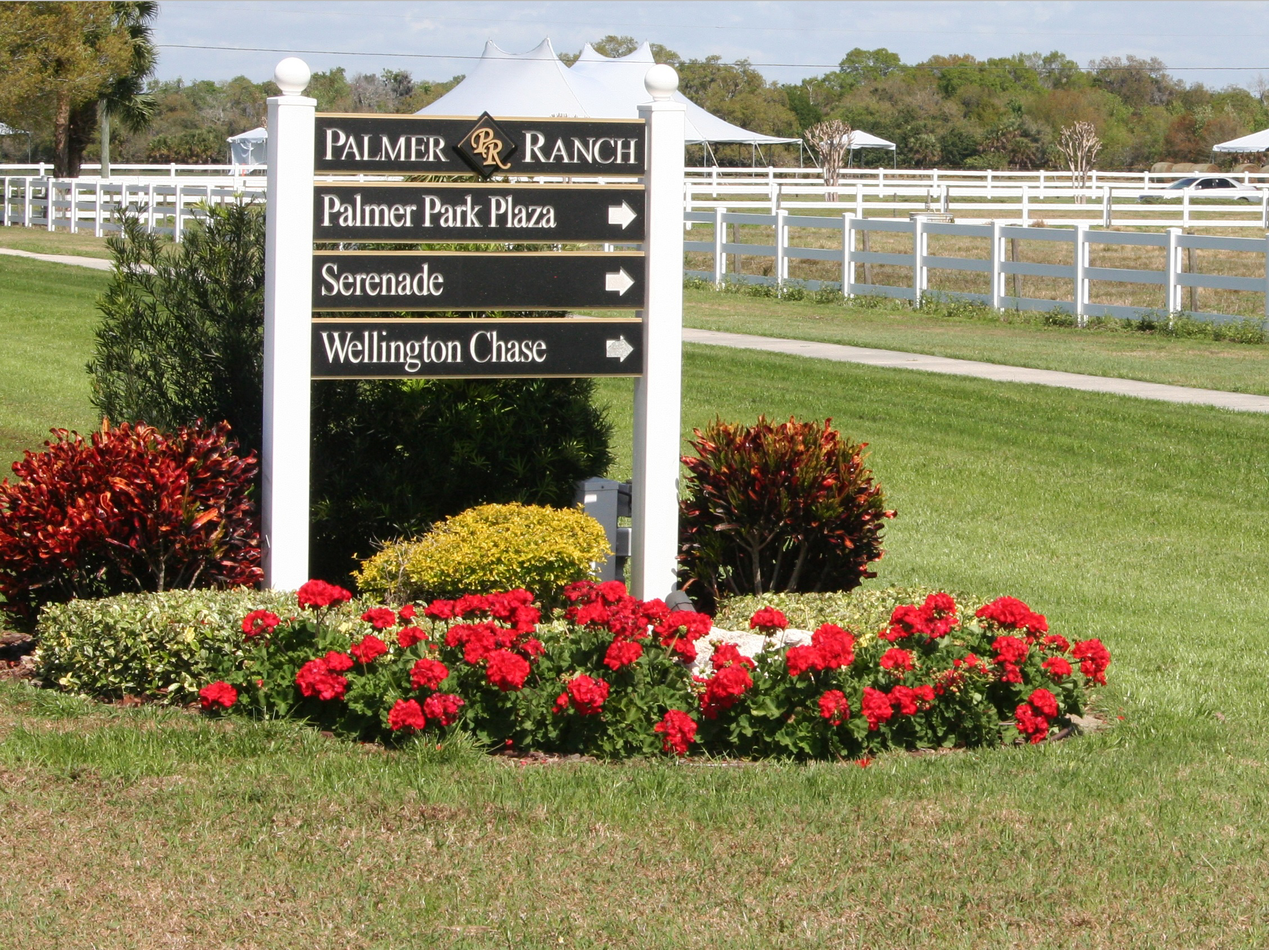
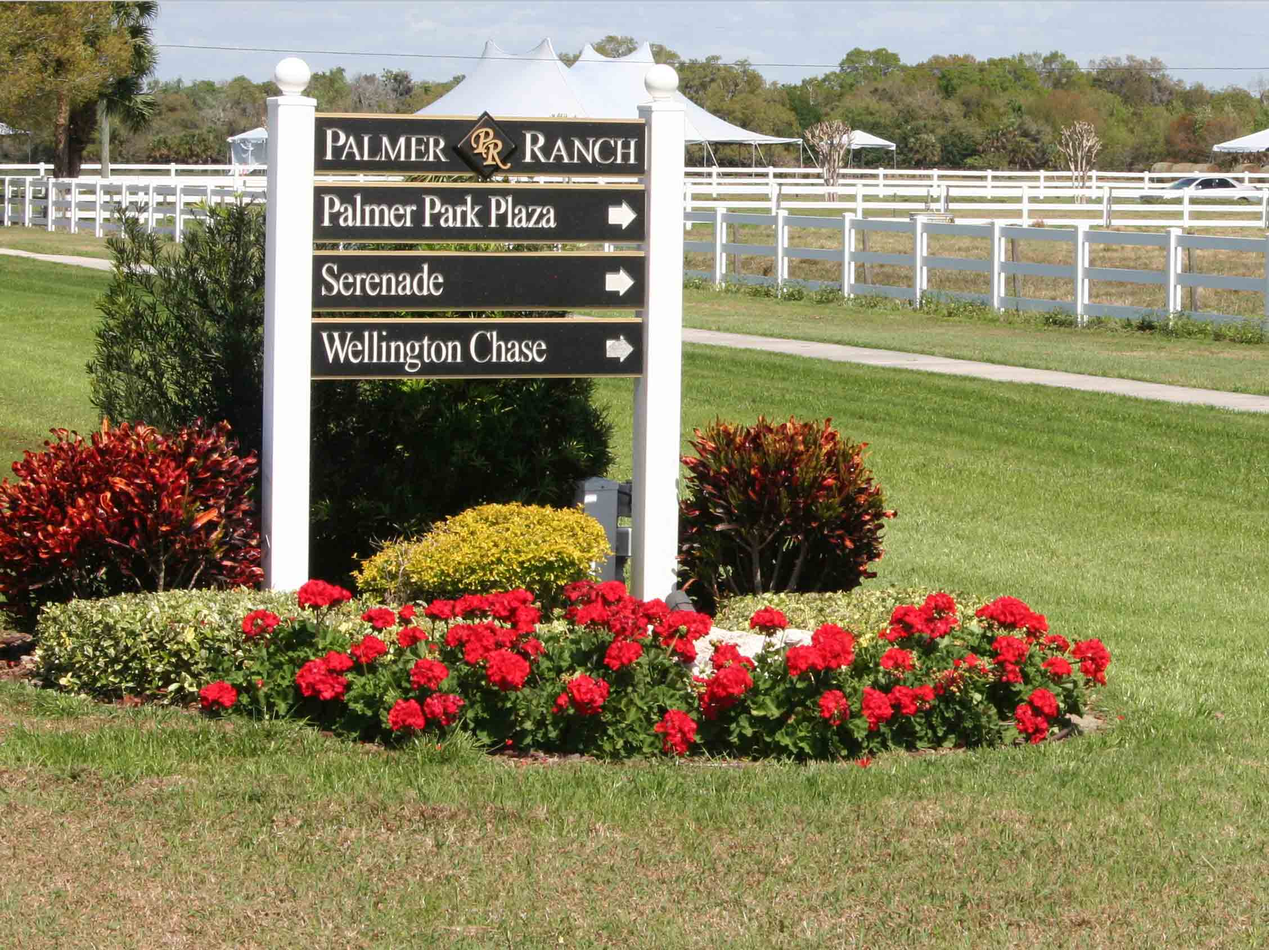
optimized images

diff --git a/index.html b/index.html
@@ -749,7 +749,6 @@
     <script src="vendor/jquery.appear/jquery.appear.js"></script>
     <script src="vendor/jquery.easing/jquery.easing.js"></script>
     <script src="vendor/jquery-cookie/jquery-cookie.js"></script>
-    <script src="master/style-switcher/style.switcher.js"></script>
     <script src="vendor/bootstrap/bootstrap.js"></script>
     <script src="vendor/common/common.js"></script>
     <script src="vendor/jquery.validation/jquery.validation.js"></script>

diff --git a/testimonials.html b/testimonials.html
@@ -106,9 +106,6 @@
                             <a href="index.html">Home</a>
                         </li>
                         <li>
-                            <a href="index.html">Home</a>
-                        </li>
-                        <li>
                             <a href="about.html">About</a>
                         </li>
                         <li>
